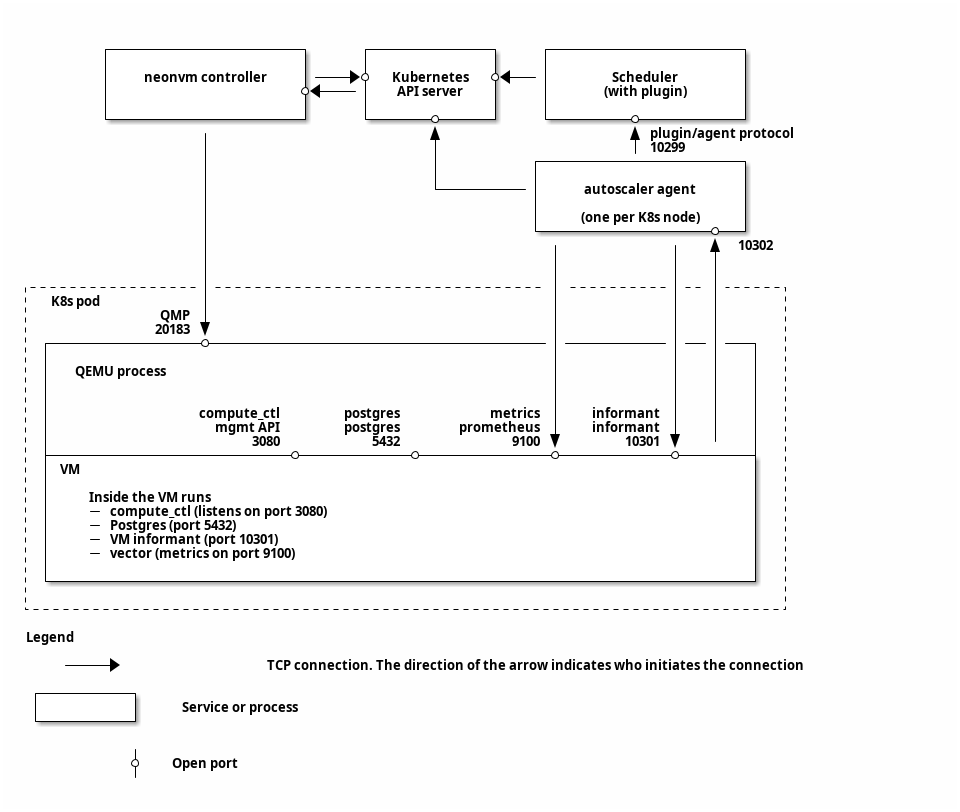
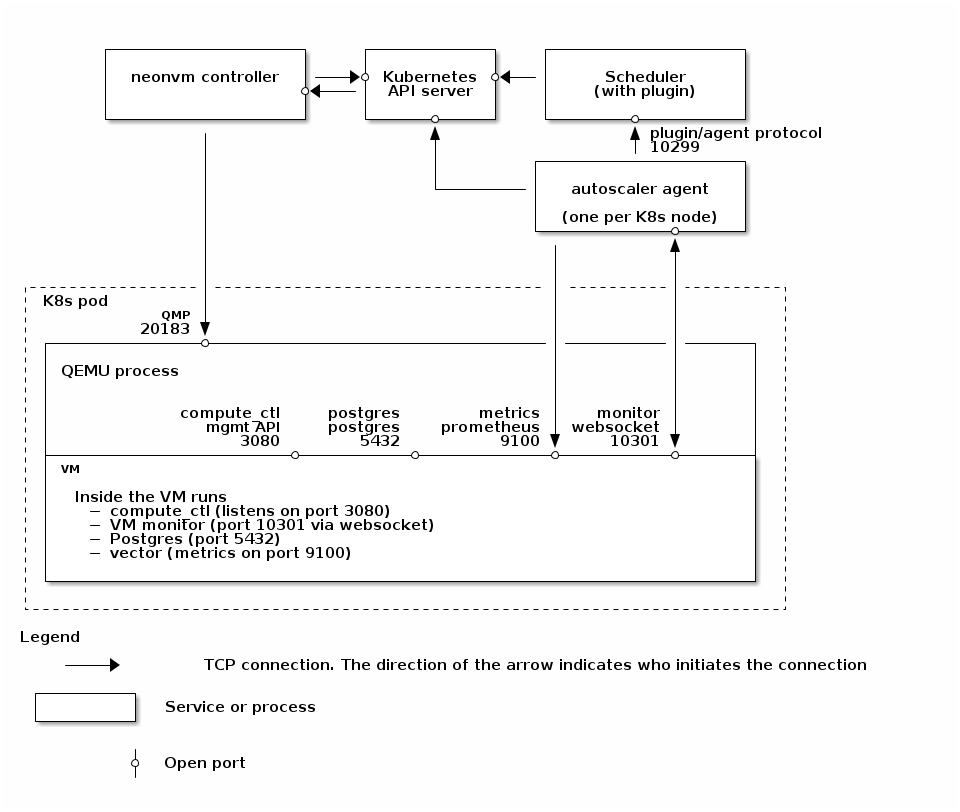
clean up the last few tidbits

diff --git a/ARCHITECTURE.md b/ARCHITECTURE.md
@@ -49,8 +49,8 @@ A third component, a binary running inside of the VM to (a) handle being upscale
 The scheduler plugin is responsible for handling resource requests from the `autoscaler-agent`,
 capping increases so that node resources aren't overcommitted.
 
-The `autoscaler-agent` periodically reads from a metrics source in the VM (defined by the
-_informant_) and makes scaling decisions about the _desired_ resource allocation. It then
+The `autoscaler-agent` periodically reads from a metrics source in the VM (currently
+node_exporter) and makes scaling decisions about the _desired_ resource allocation. It then
 requests these resources from the scheduler plugin, and submits a patch request for its NeonVM to
 update the resources.
 
